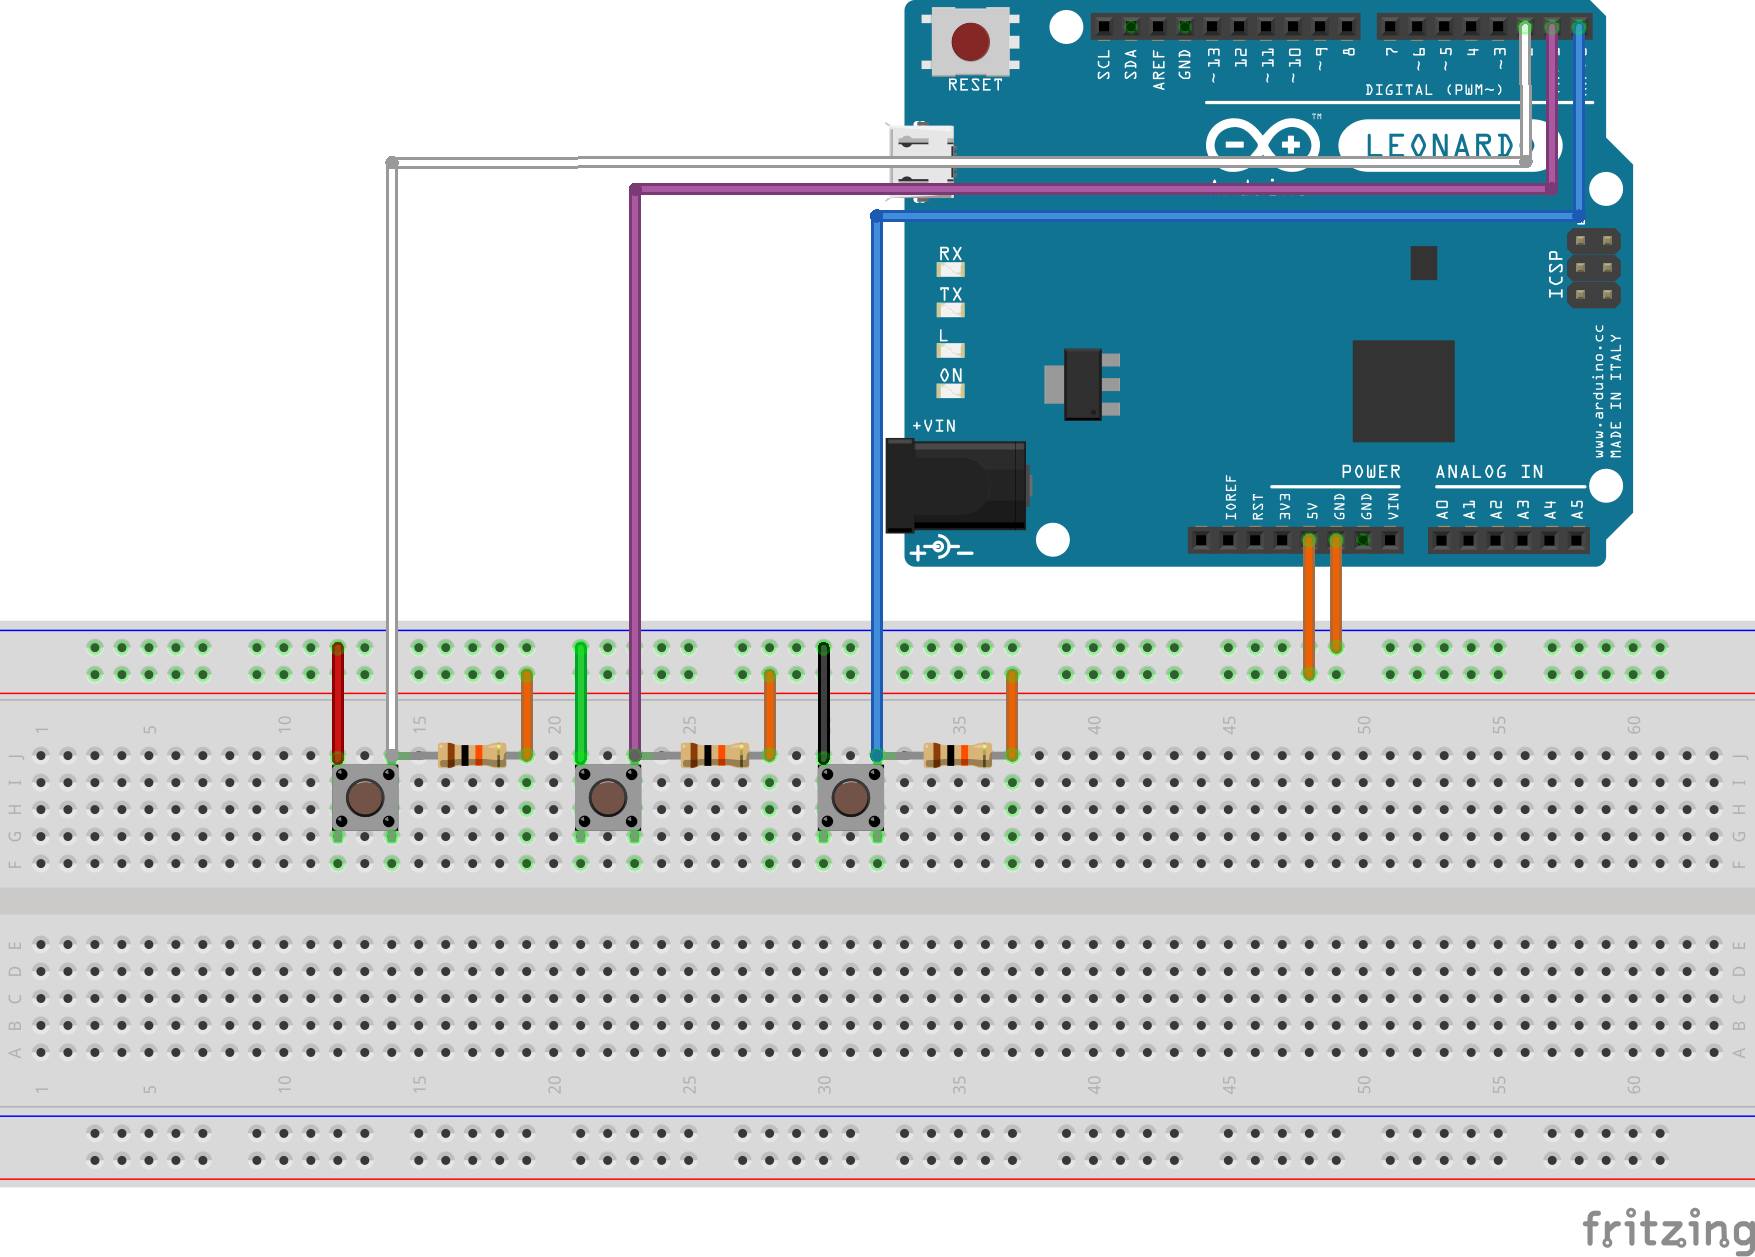
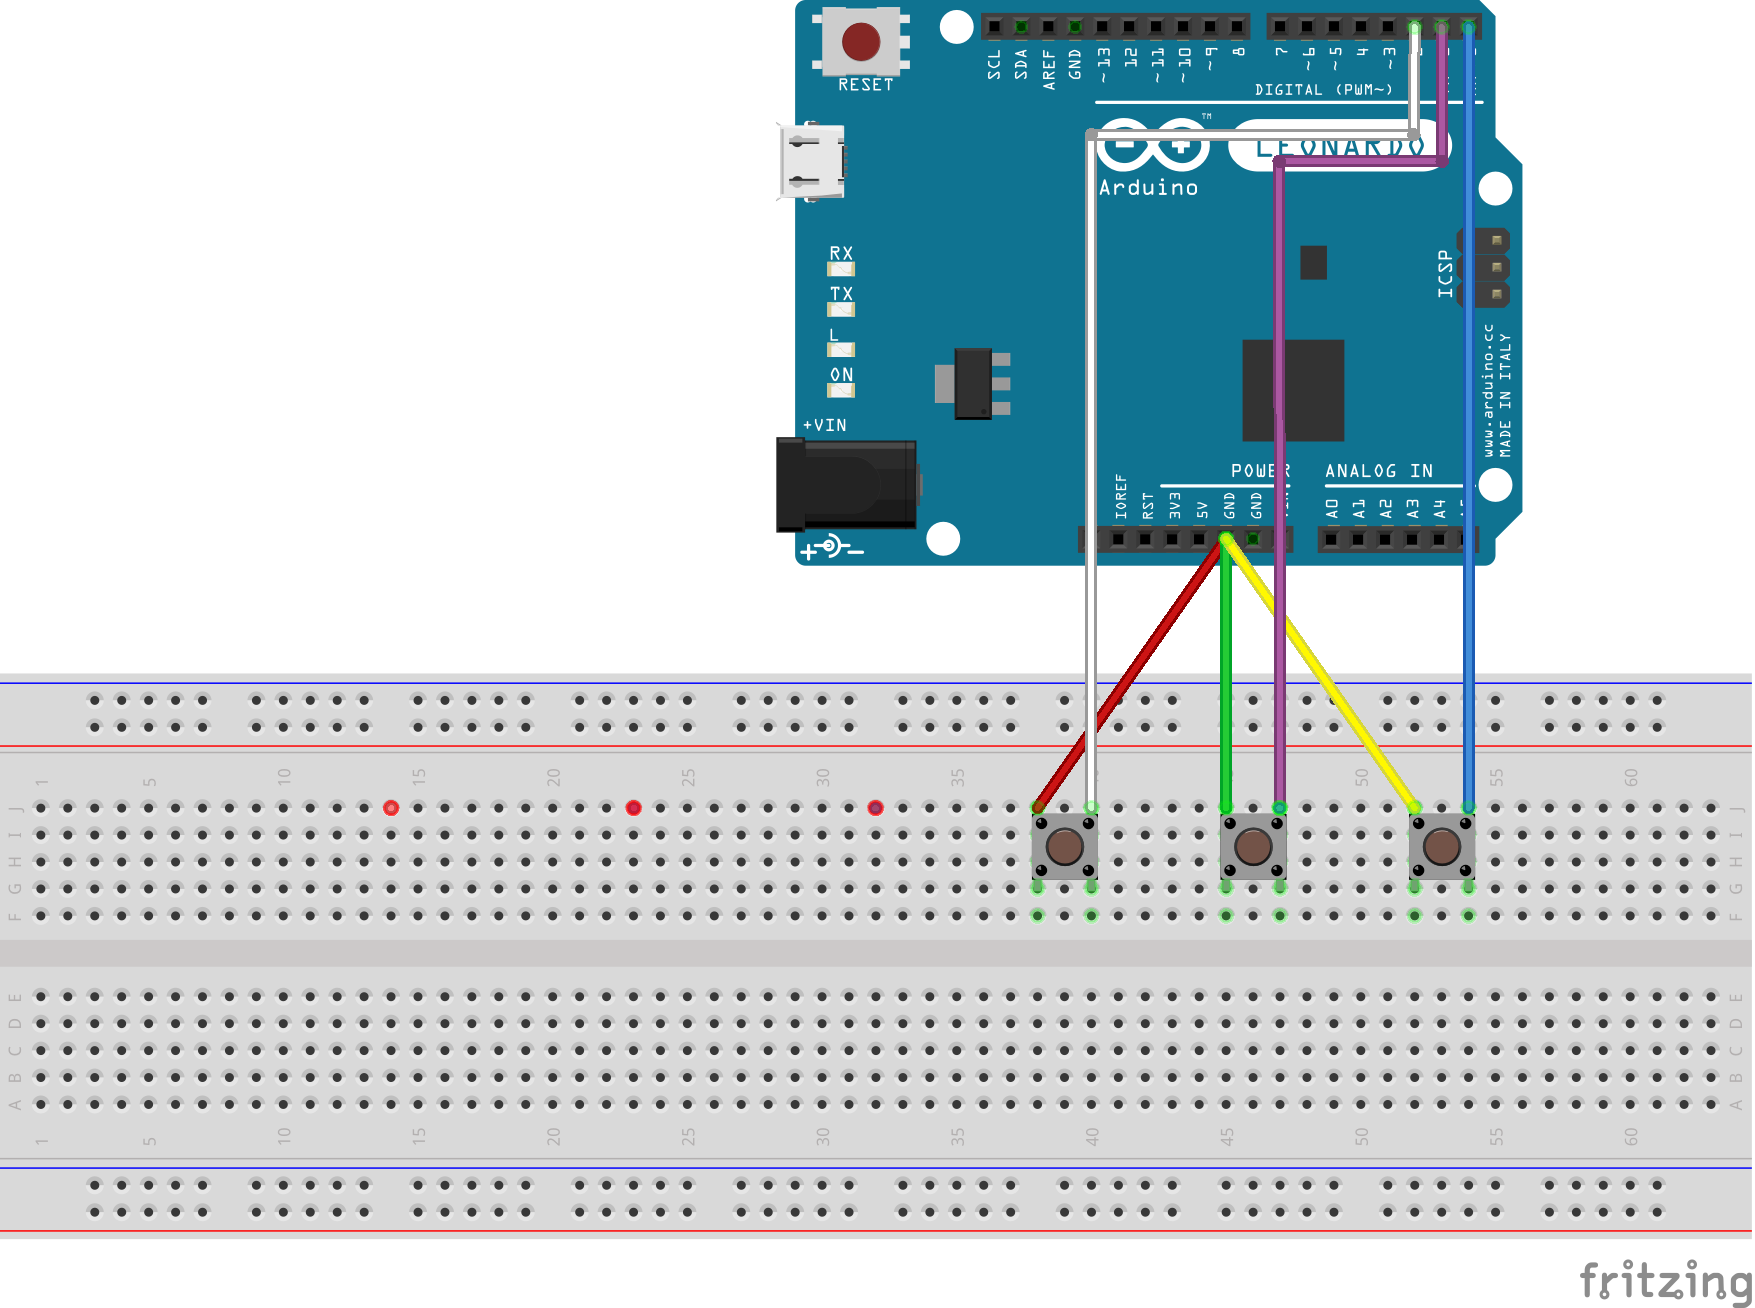
working shifter

Changed region(s): [[0.0, 0.0, 1.0, 1.0]]

diff --git a/README.md b/README.md
@@ -6,12 +6,13 @@ Because I didn't want to spent over 100EUR for a simple gear stick with two or t
 
 After that I've used my multimeter to find out the connections between the pins on the socket.
 
-<del>Next step is to write the program and find out how to mount the shifter knob on my TH8A because the TH8A uses an M8 thread where the shifter provides an M12 thread.</del>
+Later I had to open the shifter and could see the connections.
 
-<del>Therefore I bought an M8 to M12 adapter on Amazon (not arrived yet) for 5EUR (maybe a litte bit expensive for a single adapter).</del>
+The TH8A uses an M9x1.25 thread and the shifter provides an M14x1.5 thread - unfortuately I didn't find an adapter to buy.
 
-Next step is to write the program and find out how to mount the shifter knob on my TH8A because the TH8A uses an M9x1.25 thread where the shifter provides an M14x1.5 thread.
-If you have a 3D printer you can try this thing: https://www.thingiverse.com/thing:4827444
+Luckily a forum-member offerd my to print this adapter from thingiverse.
+
+https://www.thingiverse.com/thing:4827444
 
 # Pinout
 
@@ -24,20 +25,24 @@ ATTENTION: There is a resistor between red and white (range switch) which has to
 To open the shifter you can carefully remove the plastic-piece (with the printed gears) with a plastic tool (just pull the plastic-piece backwards).
 
 These are the connections between the pins
-- range (front): 4 (red)+ 5 (white)
-- splitter (side): 2 (green)+ 3 (purple)
 - comfort shift (top): 0 + 2 (normally closed), 1 + 2 (normally open), 1 + 3 (normally open, only if splitter is closed), 0 + 3 (normally closed, if splitter is closed)
+- splitter (side): 2 (green)+ 3 (purple)
+- range (front): 4 (red)+ 5 (white)
 
 so i think the wiring could be done like this.
 ```
-0 + 2 + 4 -> GND
-1 -> PIN0 (comfort shift)
-3 -> PIN1 (splitter)
-5 -> PIN2 (range)
+2 (green+yellow) + 4 (red) -> GND
+1 (blue) -> PIN18 (comfort shift)
+3 (purlple) -> PIN19 (splitter)
+5 (white) -> PIN20 (range)
 ```
 
-Because I need only three buttons I think that I'll us a digispark for this project.
-
-This s my current wiring diagram for my test-sketch
 ![wiring diagram (leonardo)](images/wiring_diagram_leonardo.png)
-the orange-cables are used for 5V and GND - all other colors are used according to the colors of the shifter (see above).
+
+I'm using an arduino pro micro because it fits inside the shifter. :-)
+
+# Pictures
+![open shifter](images/open_shifter.png)
+![inside shifter 1](images/inside_shifter_1.png)
+![inside shifter 2](images/inside_shifter_2.png)
+![mounted pro micro](images/mounted_pro_micro.png)
